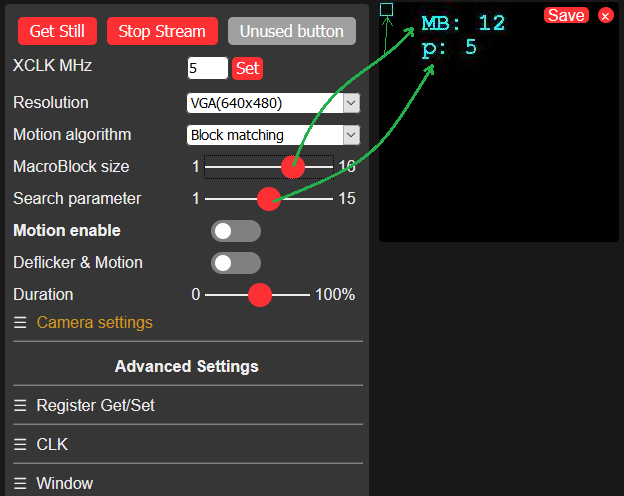
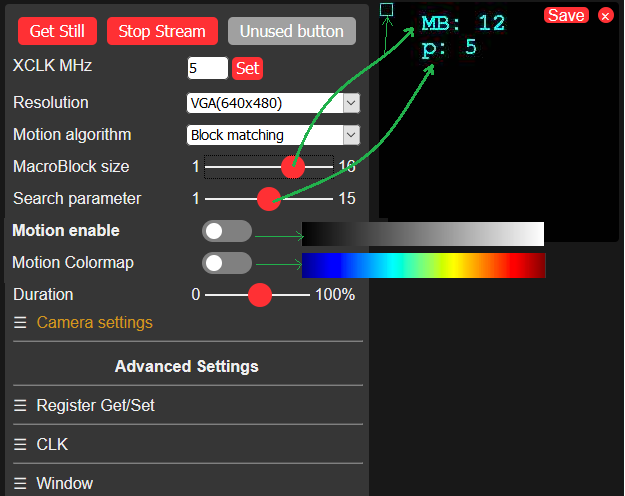
added median filter + updated README

diff --git a/src/app_httpd.c b/src/app_httpd.c
@@ -47,6 +47,14 @@ static const char *TAG = "camera_httpd";
 #define FACE_COLOR_PURPLE (FACE_COLOR_BLUE | FACE_COLOR_RED)
 #endif
 
+#ifndef median
+#define median median
+static inline int median(int a, int b, int c)
+{
+    return (b > a) == (a > c) ? a : (b > a) != (b > c) ? b : c;
+}
+#endif
+
 typedef struct
 {
     httpd_req_t *req;
@@ -70,9 +78,9 @@ static int8_t recognition_enabled = 0;
 #endif
 
 static int8_t motion_type = 0;
-static uint8_t mbsize = 4;
-static uint8_t search_parameter = 5;
-static uint8_t duration = 70;
+static uint8_t mbsize = 8;
+static uint8_t search_parameter = 7;
+static uint8_t duration = 50;
 
 static int init = 1;
 static int wdt_safety_cnt = 0;
@@ -329,12 +337,12 @@ static esp_err_t capture_handler(httpd_req_t *req)
             memcpy(image_motion->item, image_gray->item, count);
             init = 0;
         }  
-
+        /*
         // # Optical flow with vector 
         if(!LK_optical_flow(image_gray->item, image_motion->item, vector, w, h, &max_mag2)) {
             ESP_LOGE(TAG, "LK_optical_flow failed");
             res = ESP_FAIL;
-        }
+        }*/
         memcpy(image_motion->item, image_gray->item, count);
 
         if(image_rainbow) dl_matrix3du_free(image_rainbow);
@@ -440,6 +448,8 @@ static esp_err_t stream_handler(httpd_req_t *req)
             } else {
                 const int w = fb->width, h = fb->height;           
                 const int count = fb->width * fb->height;
+                if(image_matrix)
+                    dl_matrix3du_free(image_matrix);
                 image_matrix = dl_matrix3du_alloc(1, w, h, 1);
                 if (!image_matrix) {
                     ESP_LOGE(TAG,"dl_matrix3du_alloc failed");
@@ -453,13 +463,29 @@ static esp_err_t stream_handler(httpd_req_t *req)
                         ESP_LOGE(TAG, "JPEG compression failed");
                         res = ESP_FAIL;
                     }
-                } else if(!jpg2gray(fb->buf, fb->len, image_matrix->item, JPG_SCALE_NONE)){
-                    ESP_LOGE(TAG,"fmt2rgb888 failed. heap free : %u bytes", esp_get_free_heap_size());
+                } else if(!recognition_enabled && !jpg2gray(fb->buf, fb->len, image_matrix->item, JPG_SCALE_NONE)){
+                    ESP_LOGE(TAG,"jpg2gray failed. heap free : %u bytes", esp_get_free_heap_size());
+                    res = ESP_FAIL;
+                } else if(recognition_enabled && !jpg2gray_filtered(fb->buf, fb->len, image_matrix->item, JPG_SCALE_NONE)){
+                    ESP_LOGE(TAG,"jpg2gray_filtered failed. heap free : %u bytes", esp_get_free_heap_size());
                     res = ESP_FAIL;
                 } else if(motion_type == -1){
+                           
+                     int64_t  arps_start = esp_timer_get_time(); 
                     // Case motion type = gray level image input for test
-                    if (!fmt2jpg(image_matrix->item, count, w, h, PIXFORMAT_GRAYSCALE, 12, &_jpg_buf, &_jpg_buf_len))
+                    if(CONFIG_ESP_FACE_RECOGNITION_ENABLED && recognition_enabled){
+                        for(int i = w; i < (w - 1) * h; i++){
+                            image_matrix->item[i] = median(image_matrix->item[i - w * 2], image_matrix->item[i + w * 2],
+                                                            median(image_matrix->item[i],
+                                                            image_matrix->item[i - w],
+                                                            image_matrix->item[i + w]));
+                        }
+                    }
+                    if (!fmt2jpg(image_matrix->item, count, w, h, PIXFORMAT_GRAYSCALE, 60, &_jpg_buf, &_jpg_buf_len))
                         ESP_LOGE(TAG, "fmt2jpg failed");
+                    esp_camera_fb_return(fb); fb = NULL;
+                    ESP_LOGI(TAG, "time: %u ms   || heap free: %u kB ",  
+                        (uint32_t)(esp_timer_get_time() - arps_start)/1000, esp_get_free_heap_size()>>10);  
                 } else {
                     wdt_safety_cnt++;
 
@@ -511,21 +537,21 @@ static esp_err_t stream_handler(httpd_req_t *req)
                         if(motion_type > 1 ) { 
                             // block matching type algo width (resp. height) of image is number of macroblock in width (resp. height)
                             dispWidth = me_c->b_width;                            
-                            dispHeight = me_c->b_height;                         
+                            dispHeight = me_c->b_height; 
                         }
                         
-                        if(CONFIG_ESP_FACE_RECOGNITION_ENABLED && recognition_enabled){ // colormap motion enabled
-                            image_display = rainbow(me_c->mv_table[0], me_c->max, dispWidth, dispHeight);
-                        } else {
+                        //if(recognition_enabled){ // colormap motion enabled
+                        image_display = rainbow(me_c->mv_table[0], me_c->max, dispWidth, dispHeight);
+                        /*/} else {
                             image_display = dl_matrix3du_alloc(1, dispWidth, dispHeight, 1); 
                             // Normalise output to [0..255] and copy to display array
                             for(int mbi=0; mbi < dispWidth * dispHeight; mbi++)
-                                image_display->item[mbi] = (uint8_t) me_c->mv_table[0][mbi].mag2 * 255 / (1.0 * me_c->max);
-                        }
+                                image_display->item[mbi] = (uint8_t) me_c->mv_table[0][mbi].mag2 * 255.0 / (1.0 * me_c->max);
+                        }*/
 
                         // Convert display array to jpg format
-                        if (!fmt2jpg(image_display->item, dispWidth * dispHeight * (recognition_enabled ? 3 : 1),\
-                                dispWidth, dispHeight, (recognition_enabled ? PIXFORMAT_RGB888 : PIXFORMAT_GRAYSCALE),\
+                        if (!fmt2jpg(image_display->item, dispWidth * dispHeight * 3,\
+                                dispWidth, dispHeight, PIXFORMAT_RGB888,\
                                  8, &_jpg_buf, &_jpg_buf_len))
                             ESP_LOGE(TAG, "fmt2jpg failed");
                         memcpy(image_motion->item, image_matrix->item, count);

diff --git a/include/camera_index.h b/include/camera_index.h
@@ -442,8 +442,8 @@ const char* index_ov2640_html = R"~(
                         </div>                        
                         <div class="hidden input-group" id="search_parameter-group">
                             <label for="search_parameter">Search parameter</label>
-                            <div class="range-min">1</div>
-                            <input type="range" id="search_parameter" min="1" max="15" default="5" class="default-action">
+                            <div class="range-min">3</div>
+                            <input type="range" id="search_parameter" min="3" max="15" default="5" class="default-action">
                             <div class="range-max">15</div>
                         </div>
                         <div class="input-group" id="face_detect-group">
@@ -454,7 +454,7 @@ const char* index_ov2640_html = R"~(
                             </div>
                         </div>
                         <div class="input-group" id="face_recognize-group" >
-                            <label for="face_recognize">Motion Colormap</label>
+                            <label for="face_recognize">Filtered + Motion</label>
                             <div class="switch">
                                 <input id="face_recognize" type="checkbox">
                                 <label class="slider" for="face_recognize"></label>

diff --git a/README.md b/README.md
@@ -1,6 +1,21 @@
 # Camera webserver with motion
 
-Camera webserver esp32 with motion library. 
+## Changes
+- esp32motion : enhanced EPZS algorithm accuracy at the cost of computation load.
+- added JPEG decoder :
+  - Now it won't load the library from the internal ROM/jpgd.h but instead a custom `jpgd.h` library in development.
+  - `jpgd.h` can handle new features, at the moment : 
+    -   `jpg2gray` : convert directly during decoding to monochrome
+    -   `jpg2gray_filtered` : during conversion apply a median filter to remove horizontal line artifacts. (cf .gif below)
+    -   TODO : develop a DCT-phase filter which can be usefull for motion detection
+    -   TODO : develop a DCT based denoiser, deblocker
+  -   Removed upscaling (too slow)
+  -   GUI added a test "Motion Algorithm" which is just the capture converted to gray. It show the decoder latency and the effect of artifacts filtering.   
+
+![jpg2gray_filter](jpg2gray_filter.gif)
+
+
+## Old Results
 
 | algo  | demo  | input size | time |
 |---|---|---|---|
